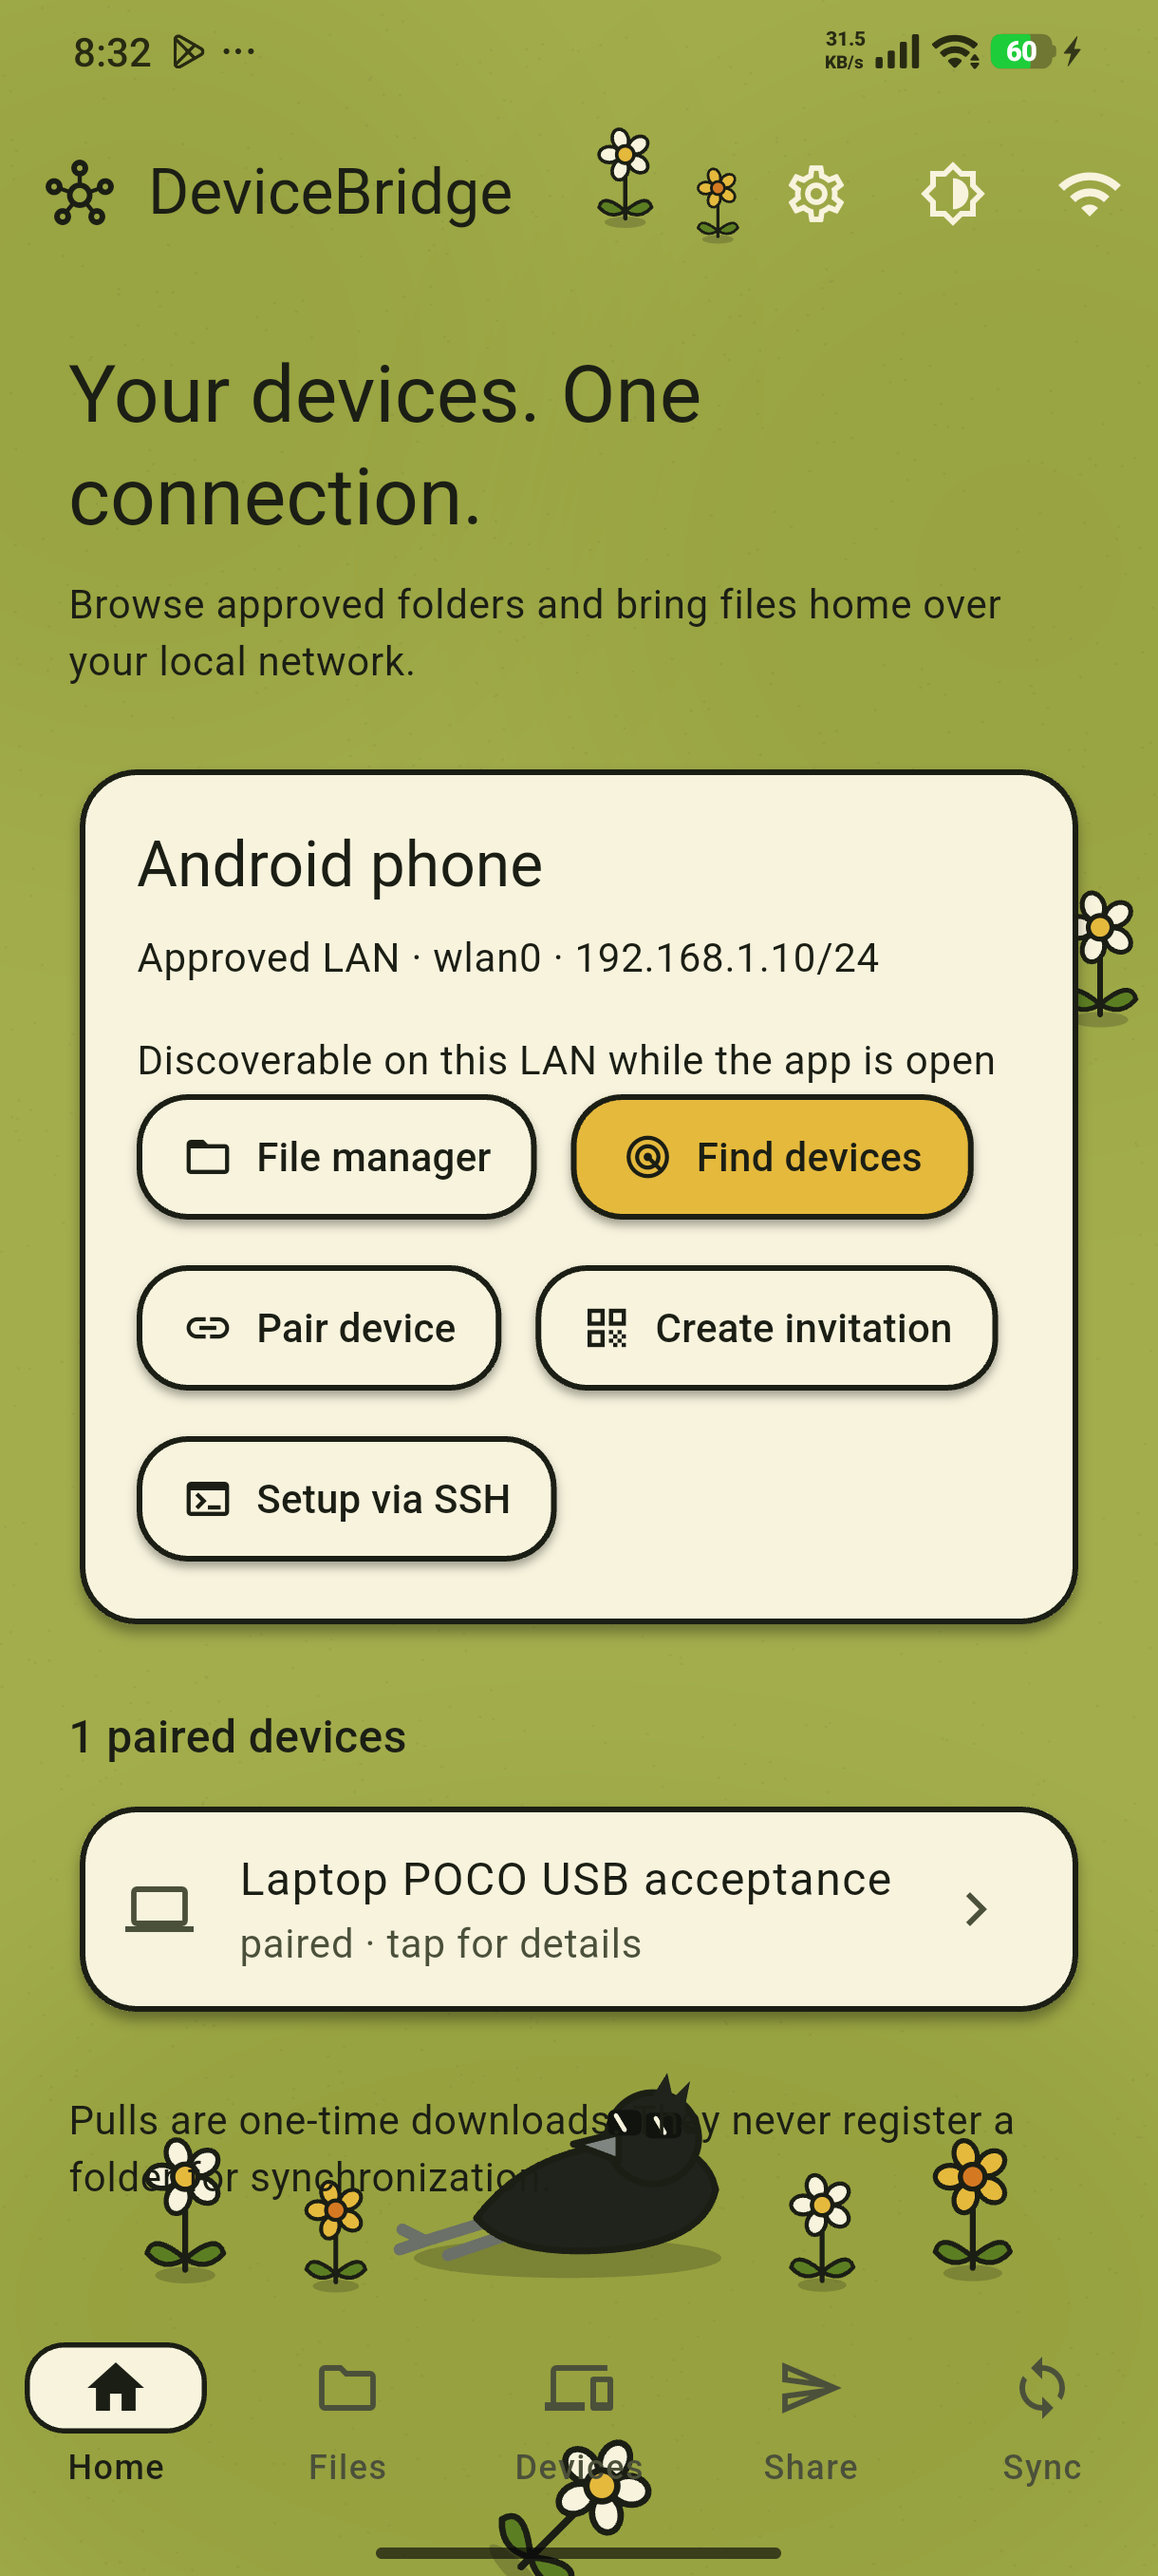
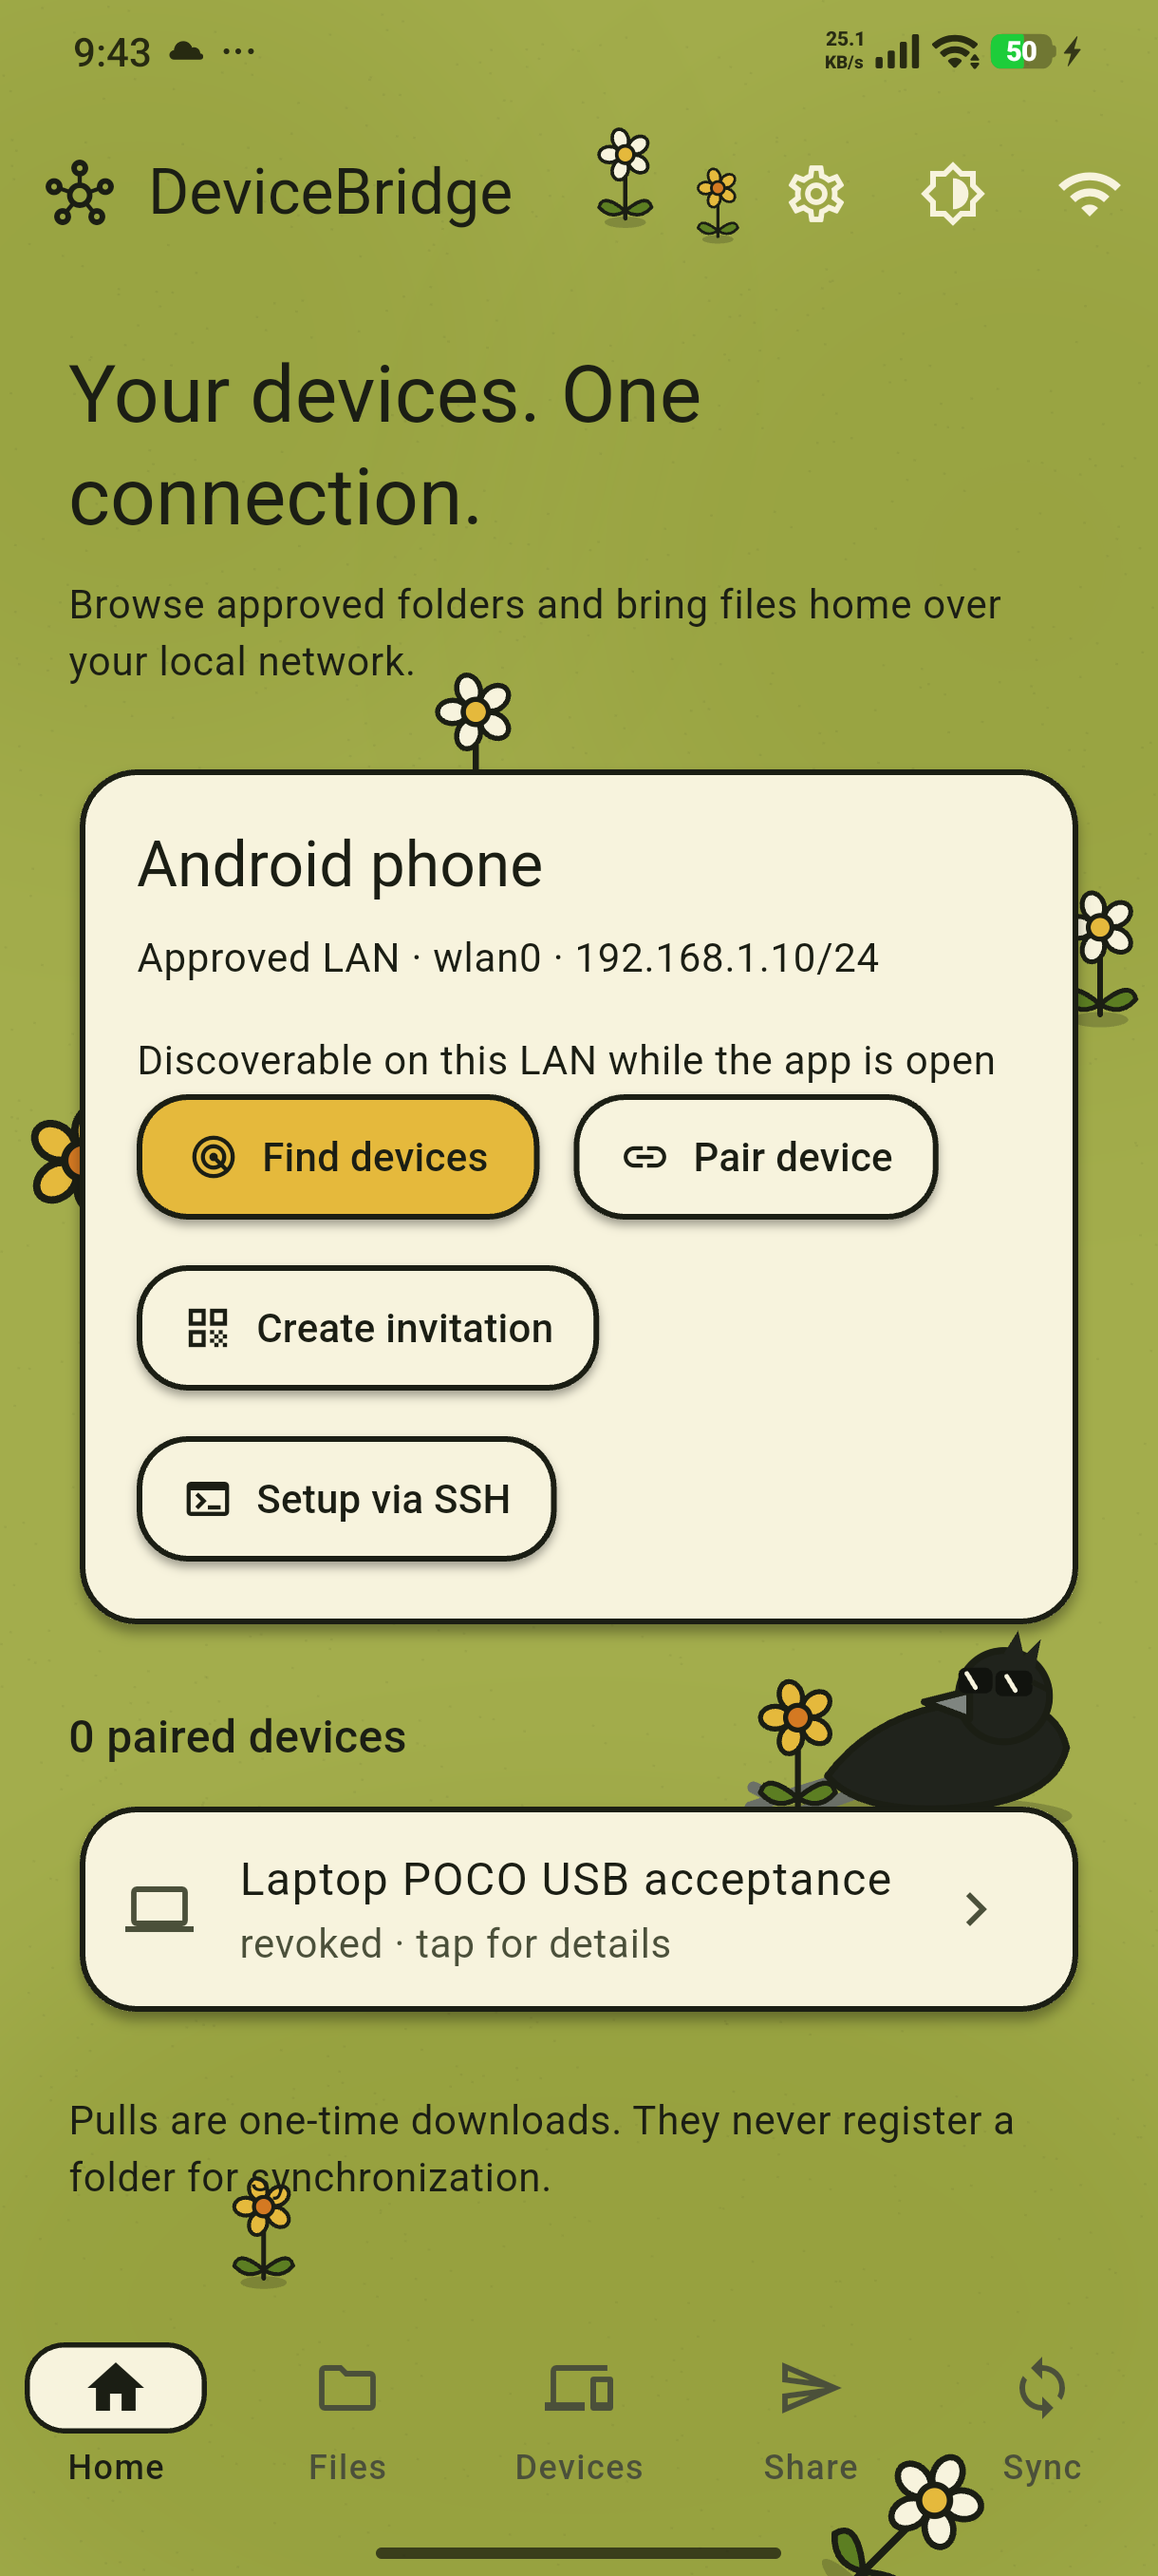
Remove redundant File manager button from Home main card

diff --git a/app/lib/main.dart b/app/lib/main.dart
@@ -17,8 +17,6 @@ import 'features/matte_editor.dart';
 import 'features/settings_screen.dart';
 import 'features/phone_files.dart';
 
-import 'dart:io';
-
 void main() => runApp(DeviceBridgeApp(core: LocalCore()));
 
 class DeviceBridgeApp extends StatefulWidget {
@@ -591,12 +589,6 @@ class _BridgeHomeState extends State<BridgeHome> {
                 spacing: 12,
                 runSpacing: 12,
                 children: [
-                  if (Platform.isAndroid)
-                    OutlinedButton.icon(
-                      onPressed: busy ? null : () => setState(() => tab = 1),
-                      icon: const Icon(Icons.folder_open_outlined),
-                      label: const Text('File manager'),
-                    ),
                   FilledButton.icon(
                     onPressed: busy ? null : discover,
                     icon: const Icon(Icons.radar),

diff --git a/app/test/widget_test.dart b/app/test/widget_test.dart
@@ -351,6 +351,7 @@ void main() {
         expect(find.text(label), findsWidgets);
       }
       expect(find.text('Terminal'), findsNothing);
+      expect(find.text('File manager'), findsNothing);
       expect(find.textContaining('10.0.0.5:8731'), findsNothing);
       expect(core.calls.any((c) => c.first == 'list'), isFalse);
 

diff --git a/prgress.md b/prgress.md
@@ -1,6 +1,6 @@
 # DeviceBridge progress
 
-**2026-11-18 ~16:25 UTC — Files dropdowns, Device Detail refactor, and live hot-reload verification complete.**
+**2026-11-18 ~16:44 UTC — Removed redundant `File manager` button from Home card, rebuilt, verified on POCO.**
 
 - Authoritative repo: `/home/afzl/@Projects/mine/device-bridge`. See [docs/IMPLEMENTATION_STATUS.md](docs/IMPLEMENTATION_STATUS.md) and [docs/test-evidence/artifact-manifest.json](docs/test-evidence/artifact-manifest.json).
 - **Verified on physical POCO `JBKJF6JFAAIZUGP7` & Linux**:
@@ -9,7 +9,7 @@
   - Local file manager verified on POCO: live text preview refresh (`LIVE version one` -> `LIVE version two`), `New folder` (`local-move-target`), Move with `excluded-cache` exclusion (`keep.txt` `a4c145116346834c` + `space λ.txt` `4d9e135688bb875a` moved, `excluded-cache/large.tmp` `dfc21015d1daf3fc` kept on source), no-overwrite denial (`Destination already exists; overwrite denied`), and return copy to `Termux Home` (`docs/test-evidence/poco-local-file-manager.json`).
   - Remote SAF & Termux Home serving verified over Wi-Fi LAN (`192.168.1.10` ↔ `192.168.1.23`): `roots`, `saf` 3-file pull (8,388,652 B, `manifest_xxh64` `98250f3829e05885`), `termux_home` Unicode listing (`space λ.txt`), remote `preview`, pull (`a4c145116346834c`, `4d9e135688bb875a`), and exclusion pull (`live.txt` only, `02e798559588a8b1`) in `docs/test-evidence/poco-remote-documents-serving.json`. Temporary `Laptop docs check` peer revoked and removed from phone afterward.
   - Interactive Matte theme editor (`app/lib/features/matte_editor.dart`, `app/lib/features/appearance.dart`, persisted via `matte_items` in `DeviceSettings.kt` & `bridge.dart`) with drag/drop, add/remove flowers & birds, color swatches, size/tilt sliders, background/foreground layer switch, and bigger default bird (`1.00`) above the bottom bar surrounded by flowers + 45°-tilted bottom flower (`docs/test-evidence/poco-matte-editor.png`, `poco-matte-home.png`).
-  - Persistent 5-tab bottom bar (`Home`, `Files`, `Devices`, `Share`, `Sync`) keeping the bottom bar visible in `Files` (`app/lib/main.dart`, `app/lib/features/phone_files.dart`); unified Matte paper and AMOLED dropdowns/popup menus (`app/lib/features/appearance.dart`, `phone_files.dart`, `connection_picker.dart`, verified in `poco-matte-files-dropdown.png`, `poco-amoled-files-dropdown.png`, `poco-matte-files-popup.png`); compact paired device cards (`app/lib/features/device_addresses.dart`) opening refactored `DeviceDetail` (`app/lib/features/remote_files.dart`, `docs/test-evidence/poco-matte-device-detail.png`) with clean unreachable card, inline `Available connections` selection (+ in `Files` for remote panes), split `Saved addresses`/`Device identity` cards, and hidden empty `Folders` header.
-  - Broad verification & builds: native Termux `go test ./...` + `go vet ./...` + `bridge-agent`/`bridge-cli` (`9010261b5cd165bd`, `072c56c7b71c075f`), Linux `gofmt` + `go vet` + `go test -race ./...`, `flutter analyze` (0 issues), `flutter test` (9/9 pass), `apksigner verify` PASS, `devicebridge.apk` (27,421,460 B, XXH64 `2b038dfe596c17da`) installed & target-verified on POCO (`Installed target xxhsum PASS: 2b038dfe596c17da`).
+  - Persistent 5-tab bottom bar (`Home`, `Files`, `Devices`, `Share`, `Sync`) keeping the bottom bar visible in `Files` (`app/lib/main.dart`, `app/lib/features/phone_files.dart`; redundant `File manager` button removed from Home main card); unified Matte paper and AMOLED dropdowns/popup menus (`app/lib/features/appearance.dart`, `phone_files.dart`, `connection_picker.dart`, verified in `poco-matte-files-dropdown.png`, `poco-amoled-files-dropdown.png`, `poco-matte-files-popup.png`); compact paired device cards (`app/lib/features/device_addresses.dart`) opening refactored `DeviceDetail` (`app/lib/features/remote_files.dart`, `docs/test-evidence/poco-matte-device-detail.png`) with clean unreachable card, inline `Available connections` selection (+ in `Files` for remote panes), split `Saved addresses`/`Device identity` cards, and hidden empty `Folders` header.
+  - Broad verification & builds: native Termux `go test ./...` + `go vet ./...` + `bridge-agent`/`bridge-cli` (`9010261b5cd165bd`, `072c56c7b71c075f`), Linux `gofmt` + `go vet` + `go test -race ./...`, `flutter analyze` (0 issues), `flutter test` (9/9 pass), `apksigner verify` PASS, `devicebridge.apk` (27,421,384 B, XXH64 `88c749cb6954f586`) installed & target-verified on POCO (`Installed target xxhsum PASS: 88c749cb6954f586`, `poco-matte-home.png`).
 - **Remaining**: remote uploads/deletes (awaiting write-grant contract), M3–M8, hotspot/Wi-Fi Direct physical link-switch E2E.
 - **Cleanup**: removed temporary `Laptop docs check` peer, removed ADB forward `tcp:18022` (at closeout), no stray laptop agents or UFW rules left active.

diff --git a/docs/IMPLEMENTATION_STATUS.md b/docs/IMPLEMENTATION_STATUS.md
@@ -59,8 +59,8 @@ The physical CLI folder command transferred 4,194,335 bytes in 4.098625 seconds 
 
 ## Artifacts and cleanup
 
-- Development-signed release APK: `artifacts/android-arm64/devicebridge.apk`, 27,421,460 bytes, XXH64 `2b038dfe596c17da` (`apksigner verify` PASS; includes `libbridge_cli.so` XXH64 `43e1602c5eeb8979`, `libbridge_agent.so`, `libbridge_tailnet.so` XXH64 `2e0c2fb548a7b521`, and `libbridge_wg.so` XXH64 `7cc099599d05769d`). Installed (`Installed target xxhsum PASS: 2b038dfe596c17da`) and visually verified on physical POCO `JBKJF6JFAAIZUGP7` (`poco-matte-home.png`, `poco-matte-files-tab.png`, `poco-matte-files-dropdown.png`, `poco-amoled-files-dropdown.png`, `poco-matte-files-popup.png`, `poco-matte-device-detail.png`, `poco-matte-editor.png`). Debug APK: `artifacts/android-arm64/devicebridge-debug.apk` (94,056,874 bytes, XXH64 `6815ea973abd7d42`).
-- Linux GUI bundle: `app/build/linux/x64/release/bundle/`; packaged archive: `artifacts/linux/devicebridge-linux-x64.tar.gz` (30,105,952 bytes, XXH64 `cce0fa51e656ddc0`); Linux (`bridge-agent` `14158cfcda9047a0`, `bridge-cli` `af708f760d1348ab`) and Termux (`bridge-agent` `9010261b5cd165bd`, `bridge-cli` `072c56c7b71c075f`) Go binaries. `artifacts/MANIFEST.json` and `docs/test-evidence/artifact-manifest.json` record XXH64 hashes.
+- Development-signed release APK: `artifacts/android-arm64/devicebridge.apk`, 27,421,384 bytes, XXH64 `88c749cb6954f586` (`apksigner verify` PASS; includes `libbridge_cli.so` XXH64 `bcd4746b17d10c70`, `libbridge_agent.so`, `libbridge_tailnet.so` XXH64 `c982f479575bf76c`, and `libbridge_wg.so` XXH64 `4d732cc35b6c89b9`). Installed (`Installed target xxhsum PASS: 88c749cb6954f586`) and visually verified on physical POCO `JBKJF6JFAAIZUGP7` (`poco-matte-home.png`, `poco-matte-files-tab.png`, `poco-matte-files-dropdown.png`, `poco-amoled-files-dropdown.png`, `poco-matte-files-popup.png`, `poco-matte-device-detail.png`, `poco-matte-editor.png`). Debug APK: `artifacts/android-arm64/devicebridge-debug.apk` (94,055,787 bytes, XXH64 `2ad124338ae0c2c4`).
+- Linux GUI bundle: `app/build/linux/x64/release/bundle/`; packaged archive: `artifacts/linux/devicebridge-linux-x64.tar.gz` (30,106,055 bytes, XXH64 `d02844968f1d5f99`); Linux (`bridge-agent` `464d6cff0a52dbf7`, `bridge-cli` `10328300d054e306`) and Termux (`bridge-agent` `9010261b5cd165bd`, `bridge-cli` `072c56c7b71c075f`) Go binaries. `artifacts/MANIFEST.json` and `docs/test-evidence/artifact-manifest.json` record XXH64 hashes.
 - All experiment-owned laptop agents stopped. All temporary wlan0 TCP8731 rules (phone10.100.102.33 → laptop10.100.102.69 only) were deleted after baseline tests; no UFW rules were added in this session. No persistent device service was installed.
 - SAF retained only the test folder `DeviceBridge-Test-20261118T064118Z` with verified sample copies. Owned temporary UI XML is removed. Private test identities/state remain in ignored `.work/` and disposable phone snapshots for reproducibility.
 
